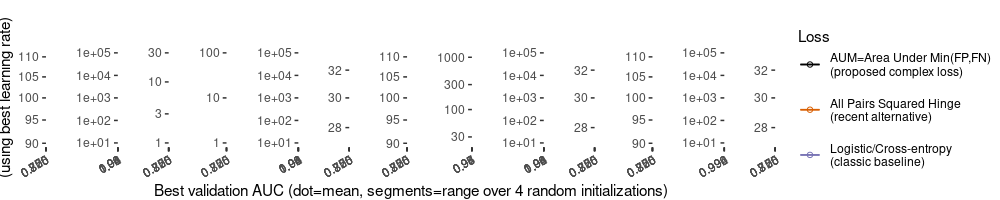
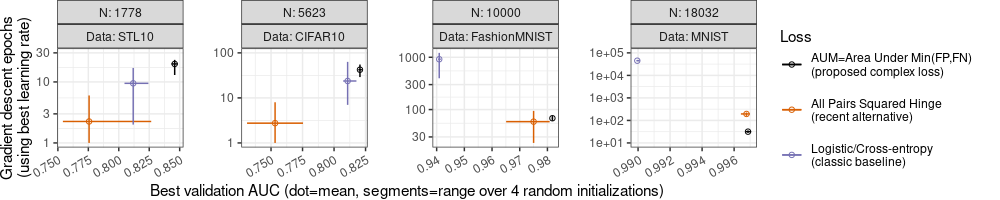
fix blank by join

diff --git a/_posts/2024-08-30-viz-pred-err.md b/_posts/2024-08-30-viz-pred-err.md
@@ -375,44 +375,24 @@ First we compute the best two loss functions for each dataset, as below.
 
 ``` r
 (best.two <- best.wide[
-  order(-auc_mean)
+  order(N,-auc_mean)
 ][
 , rank := rank(-auc_mean)
 , by=.(N,Data)
-][rank <= 2])
+][rank <= 2, .(N,Data,Loss,auc_mean,rank)])
 ```
 
 ```
-##        N         Data                                               Loss  auc_mean step_number_mean       auc_sd
-##    <int>       <char>                                             <fctr>     <num>            <num>        <num>
-## 1: 18032        MNIST AUM=Area Under Min(FP,FN)\n(proposed complex loss) 0.9968667            31.75 0.0001704442
-## 2: 18032        MNIST      All Pairs Squared Hinge\n(recent alternative) 0.9967723           194.00 0.0002446508
-## 3: 10000 FashionMNIST AUM=Area Under Min(FP,FN)\n(proposed complex loss) 0.9817996            68.25 0.0001768922
-## 4: 10000 FashionMNIST      All Pairs Squared Hinge\n(recent alternative) 0.9750111            58.75 0.0069031630
-## 5:  1778        STL10 AUM=Area Under Min(FP,FN)\n(proposed complex loss) 0.8459024            19.75 0.0021060041
-## 6:  5623      CIFAR10 AUM=Area Under Min(FP,FN)\n(proposed complex loss) 0.8205572            42.25 0.0012836241
-## 7:  1778        STL10         Logistic/Cross-entropy\n(classic baseline) 0.8118469             9.50 0.0086704638
-## 8:  5623      CIFAR10         Logistic/Cross-entropy\n(classic baseline) 0.8107824            23.75 0.0047546328
-##    step_number_sd auc_length step_number_length   auc_min step_number_min   auc_max step_number_max        lo        hi
-##             <num>      <int>              <int>     <num>           <int>     <num>           <int>     <num>     <num>
-## 1:       3.862210          4                  4 0.9967078              28 0.9970675              36 0.9966963 0.9970371
-## 2:      31.379399          4                  4 0.9964240             158 0.9969883             225 0.9965277 0.9970170
-## 3:       5.852350          4                  4 0.9816031              61 0.9820311              75 0.9816227 0.9819764
-## 4:      30.598203          4                  4 0.9650889              23 0.9808044              94 0.9681079 0.9819143
-## 5:       4.573474          4                  4 0.8432584              13 0.8483989              23 0.8437964 0.8480084
-## 6:      10.812801          4                  4 0.8192649              29 0.8220866              55 0.8192736 0.8218409
-## 7:       7.141428          4                  4 0.8046910               2 0.8243258              17 0.8031764 0.8205174
-## 8:      26.297972          4                  4 0.8072651               7 0.8177584              63 0.8060277 0.8155370
-##          mid  rank
-##        <num> <num>
-## 1: 0.9934427     1
-## 2: 0.9934427     2
-## 3: 0.9612576     1
-## 4: 0.9612576     2
-## 5: 0.7947207     1
-## 6: 0.7759173     1
-## 7: 0.7947207     2
-## 8: 0.7759173     2
+##        N         Data                                               Loss  auc_mean  rank
+##    <int>       <char>                                             <fctr>     <num> <num>
+## 1:  1778        STL10 AUM=Area Under Min(FP,FN)\n(proposed complex loss) 0.8459024     1
+## 2:  1778        STL10         Logistic/Cross-entropy\n(classic baseline) 0.8118469     2
+## 3:  5623      CIFAR10 AUM=Area Under Min(FP,FN)\n(proposed complex loss) 0.8205572     1
+## 4:  5623      CIFAR10         Logistic/Cross-entropy\n(classic baseline) 0.8107824     2
+## 5: 10000 FashionMNIST AUM=Area Under Min(FP,FN)\n(proposed complex loss) 0.9817996     1
+## 6: 10000 FashionMNIST      All Pairs Squared Hinge\n(recent alternative) 0.9750111     2
+## 7: 18032        MNIST AUM=Area Under Min(FP,FN)\n(proposed complex loss) 0.9968667     1
+## 8: 18032        MNIST      All Pairs Squared Hinge\n(recent alternative) 0.9967723     2
 ```
 
 Below we join with the original data.
@@ -425,42 +405,42 @@ Below we join with the original data.
 ```
 ##         N         Data                                               Loss  rank  seed       auc
 ##     <int>       <char>                                             <fctr> <num> <int>     <num>
-##  1: 18032        MNIST AUM=Area Under Min(FP,FN)\n(proposed complex loss)     1     1 0.9967078
-##  2: 18032        MNIST AUM=Area Under Min(FP,FN)\n(proposed complex loss)     1     2 0.9967440
-##  3: 18032        MNIST AUM=Area Under Min(FP,FN)\n(proposed complex loss)     1     3 0.9969475
-##  4: 18032        MNIST AUM=Area Under Min(FP,FN)\n(proposed complex loss)     1     4 0.9970675
-##  5: 18032        MNIST      All Pairs Squared Hinge\n(recent alternative)     2     1 0.9964240
-##  6: 18032        MNIST      All Pairs Squared Hinge\n(recent alternative)     2     2 0.9968762
-##  7: 18032        MNIST      All Pairs Squared Hinge\n(recent alternative)     2     3 0.9968006
-##  8: 18032        MNIST      All Pairs Squared Hinge\n(recent alternative)     2     4 0.9969883
-##  9: 10000 FashionMNIST AUM=Area Under Min(FP,FN)\n(proposed complex loss)     1     1 0.9817591
-## 10: 10000 FashionMNIST AUM=Area Under Min(FP,FN)\n(proposed complex loss)     1     2 0.9816031
-## 11: 10000 FashionMNIST AUM=Area Under Min(FP,FN)\n(proposed complex loss)     1     3 0.9818049
-## 12: 10000 FashionMNIST AUM=Area Under Min(FP,FN)\n(proposed complex loss)     1     4 0.9820311
-## 13: 10000 FashionMNIST      All Pairs Squared Hinge\n(recent alternative)     2     1 0.9781764
-## 14: 10000 FashionMNIST      All Pairs Squared Hinge\n(recent alternative)     2     2 0.9808044
-## 15: 10000 FashionMNIST      All Pairs Squared Hinge\n(recent alternative)     2     3 0.9759747
-## 16: 10000 FashionMNIST      All Pairs Squared Hinge\n(recent alternative)     2     4 0.9650889
-## 17:  1778        STL10 AUM=Area Under Min(FP,FN)\n(proposed complex loss)     1     1 0.8432584
-## 18:  1778        STL10 AUM=Area Under Min(FP,FN)\n(proposed complex loss)     1     2 0.8457865
-## 19:  1778        STL10 AUM=Area Under Min(FP,FN)\n(proposed complex loss)     1     3 0.8483989
-## 20:  1778        STL10 AUM=Area Under Min(FP,FN)\n(proposed complex loss)     1     4 0.8461657
-## 21:  5623      CIFAR10 AUM=Area Under Min(FP,FN)\n(proposed complex loss)     1     1 0.8220866
-## 22:  5623      CIFAR10 AUM=Area Under Min(FP,FN)\n(proposed complex loss)     1     2 0.8192649
-## 23:  5623      CIFAR10 AUM=Area Under Min(FP,FN)\n(proposed complex loss)     1     3 0.8197657
-## 24:  5623      CIFAR10 AUM=Area Under Min(FP,FN)\n(proposed complex loss)     1     4 0.8211118
-## 25:  1778        STL10         Logistic/Cross-entropy\n(classic baseline)     2     1 0.8076966
-## 26:  1778        STL10         Logistic/Cross-entropy\n(classic baseline)     2     2 0.8243258
-## 27:  1778        STL10         Logistic/Cross-entropy\n(classic baseline)     2     3 0.8046910
-## 28:  1778        STL10         Logistic/Cross-entropy\n(classic baseline)     2     4 0.8106742
-## 29:  5623      CIFAR10         Logistic/Cross-entropy\n(classic baseline)     2     1 0.8084200
-## 30:  5623      CIFAR10         Logistic/Cross-entropy\n(classic baseline)     2     2 0.8177584
-## 31:  5623      CIFAR10         Logistic/Cross-entropy\n(classic baseline)     2     3 0.8096859
-## 32:  5623      CIFAR10         Logistic/Cross-entropy\n(classic baseline)     2     4 0.8072651
+##  1:  1778        STL10 AUM=Area Under Min(FP,FN)\n(proposed complex loss)     1     1 0.8432584
+##  2:  1778        STL10 AUM=Area Under Min(FP,FN)\n(proposed complex loss)     1     2 0.8457865
+##  3:  1778        STL10 AUM=Area Under Min(FP,FN)\n(proposed complex loss)     1     3 0.8483989
+##  4:  1778        STL10 AUM=Area Under Min(FP,FN)\n(proposed complex loss)     1     4 0.8461657
+##  5:  1778        STL10         Logistic/Cross-entropy\n(classic baseline)     2     1 0.8076966
+##  6:  1778        STL10         Logistic/Cross-entropy\n(classic baseline)     2     2 0.8243258
+##  7:  1778        STL10         Logistic/Cross-entropy\n(classic baseline)     2     3 0.8046910
+##  8:  1778        STL10         Logistic/Cross-entropy\n(classic baseline)     2     4 0.8106742
+##  9:  5623      CIFAR10 AUM=Area Under Min(FP,FN)\n(proposed complex loss)     1     1 0.8220866
+## 10:  5623      CIFAR10 AUM=Area Under Min(FP,FN)\n(proposed complex loss)     1     2 0.8192649
+## 11:  5623      CIFAR10 AUM=Area Under Min(FP,FN)\n(proposed complex loss)     1     3 0.8197657
+## 12:  5623      CIFAR10 AUM=Area Under Min(FP,FN)\n(proposed complex loss)     1     4 0.8211118
+## 13:  5623      CIFAR10         Logistic/Cross-entropy\n(classic baseline)     2     1 0.8084200
+## 14:  5623      CIFAR10         Logistic/Cross-entropy\n(classic baseline)     2     2 0.8177584
+## 15:  5623      CIFAR10         Logistic/Cross-entropy\n(classic baseline)     2     3 0.8096859
+## 16:  5623      CIFAR10         Logistic/Cross-entropy\n(classic baseline)     2     4 0.8072651
+## 17: 10000 FashionMNIST AUM=Area Under Min(FP,FN)\n(proposed complex loss)     1     1 0.9817591
+## 18: 10000 FashionMNIST AUM=Area Under Min(FP,FN)\n(proposed complex loss)     1     2 0.9816031
+## 19: 10000 FashionMNIST AUM=Area Under Min(FP,FN)\n(proposed complex loss)     1     3 0.9818049
+## 20: 10000 FashionMNIST AUM=Area Under Min(FP,FN)\n(proposed complex loss)     1     4 0.9820311
+## 21: 10000 FashionMNIST      All Pairs Squared Hinge\n(recent alternative)     2     1 0.9781764
+## 22: 10000 FashionMNIST      All Pairs Squared Hinge\n(recent alternative)     2     2 0.9808044
+## 23: 10000 FashionMNIST      All Pairs Squared Hinge\n(recent alternative)     2     3 0.9759747
+## 24: 10000 FashionMNIST      All Pairs Squared Hinge\n(recent alternative)     2     4 0.9650889
+## 25: 18032        MNIST AUM=Area Under Min(FP,FN)\n(proposed complex loss)     1     1 0.9967078
+## 26: 18032        MNIST AUM=Area Under Min(FP,FN)\n(proposed complex loss)     1     2 0.9967440
+## 27: 18032        MNIST AUM=Area Under Min(FP,FN)\n(proposed complex loss)     1     3 0.9969475
+## 28: 18032        MNIST AUM=Area Under Min(FP,FN)\n(proposed complex loss)     1     4 0.9970675
+## 29: 18032        MNIST      All Pairs Squared Hinge\n(recent alternative)     2     1 0.9964240
+## 30: 18032        MNIST      All Pairs Squared Hinge\n(recent alternative)     2     2 0.9968762
+## 31: 18032        MNIST      All Pairs Squared Hinge\n(recent alternative)     2     3 0.9968006
+## 32: 18032        MNIST      All Pairs Squared Hinge\n(recent alternative)     2     4 0.9969883
 ##         N         Data                                               Loss  rank  seed       auc
 ```
 
-Below we reshape.
+Below we reshape, which is required before doing the T-test in R.
 
 
 ``` r
@@ -490,7 +470,7 @@ Below we reshape.
 ```
 
 Below we run T-tests to see if the top ranked AUC is significantly
-greater than the next ranked AUC.
+greater than the next ranked AUC, for each data set.
 
 
 ``` r
@@ -566,14 +546,16 @@ ggplot()+
     vjust=1.5,
     data=best.wide)+
   facet_grid(. ~ N + Data, labeller=label_both, scales="free")+
+  scale_y_discrete(
+    "Loss")+
   scale_x_continuous(
     "Max validation AUC (Mean ± SD over 4 random initializations)")
 ```
 
 ![plot of chunk p-value](/assets/img/2024-08-30-viz-pred-err/p-value-1.png)
 
-In the plot above that we show the p-value, so we can see that 
-* the difference in MNIST is not statistically significant (p much larger than 0.05), 
+In the plot above, we show the p-value, which is typically intepreted by comparing with the traditional significance threshold of 0.05, which corresponds to a 5% false positive rate. Seeing a p-value of 0.05 means that you have observed a difference that you would see about 5% of the time (simply due to random variation/noise), if there is really no difference between methods. So if we are trying to argue that one algorithm is better, then we want to see small p-values, which mean that we have observed differences that are so large, that it would be extremely unlikely to see such a difference by random chance.
+* the difference in MNIST is not statistically significant (p=0.17 much larger than 0.05), 
 * in FashionMNIST there is a slight difference (but we do not say significant because p=0.07 is still larger than 0.05),
 * in CIFAR10 there is a significant difference (p=0.02 is less than 0.05),
 * in STL10 there is a highly significant difference (p=0.002, order of magnitude less than 0.05).
@@ -686,10 +668,35 @@ dput(RColorBrewer::brewer.pal(3,"Dark2"))
 loss.colors <- c("black", "#D95F02", "#7570B3")
 names(loss.colors) <- loss2show
 p <- function(Data,x,y)data.table(Data,x,y)
-blank.dt <- rbind(
+(blank.Data <- rbind(
   p("CIFAR10",0.8,100),
   p("MNIST",0.99,c(10,100000)),
-  p("STL10",0.8,30))
+  p("STL10",0.8,30)))
+```
+
+```
+##       Data     x     y
+##     <char> <num> <num>
+## 1: CIFAR10  0.80 1e+02
+## 2:   MNIST  0.99 1e+01
+## 3:   MNIST  0.99 1e+05
+## 4:   STL10  0.80 3e+01
+```
+
+``` r
+(blank.Data.N <- best.wide[, .(N,Data)][blank.Data, on=.(Data), mult="first"])
+```
+
+```
+##        N    Data     x     y
+##    <int>  <char> <num> <num>
+## 1:  5623 CIFAR10  0.80 1e+02
+## 2: 18032   MNIST  0.99 1e+01
+## 3: 18032   MNIST  0.99 1e+05
+## 4:  1778   STL10  0.80 3e+01
+```
+
+``` r
 ggplot()+
   theme_bw()+
   theme(
@@ -697,7 +704,7 @@ ggplot()+
     legend.key.spacing.y=grid::unit(1, "lines"),
     axis.text.x=element_text(angle=30, hjust=1),
     panel.spacing=grid::unit(1.5, "lines"))+
-  geom_blank(aes(x, y), data=blank.dt)+
+  geom_blank(aes(x, y), data=blank.Data.N)+
   geom_point(aes(
     auc_mean, step_number_mean,
     color=Loss),
